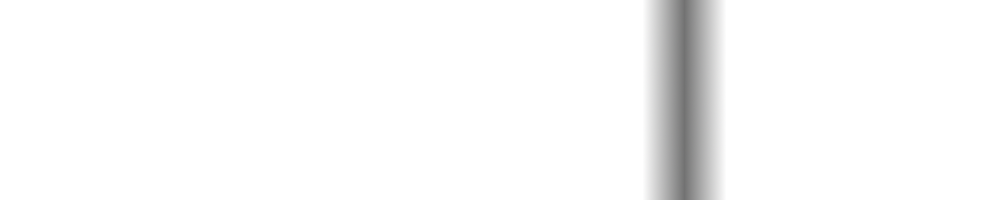
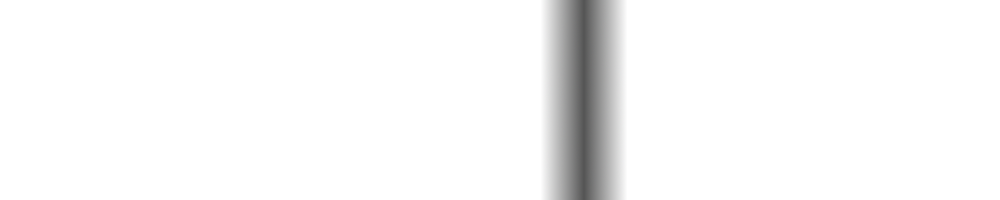
Fixing Y-mirroring, updating 0.png sample

Changed region(s): [[0.651, 0.0, 0.744, 1.0], [0.527, 0.0, 0.62, 1.0]]

diff --git a/main.py b/main.py
@@ -326,7 +326,7 @@ class QualityFunctionBuilder:
             self.__init__()
             raise Exception("Image size should be at least 2x2.")
         self._im = [
-            [float(pix[x, y]) / 255.0 for y in xrange(self._imh)] 
+            [float(pix[x, y]) / 255.0 for y in xrange(self._imh - 1, -1, -1)] 
             for x in xrange(self._imw)
         ]
 
